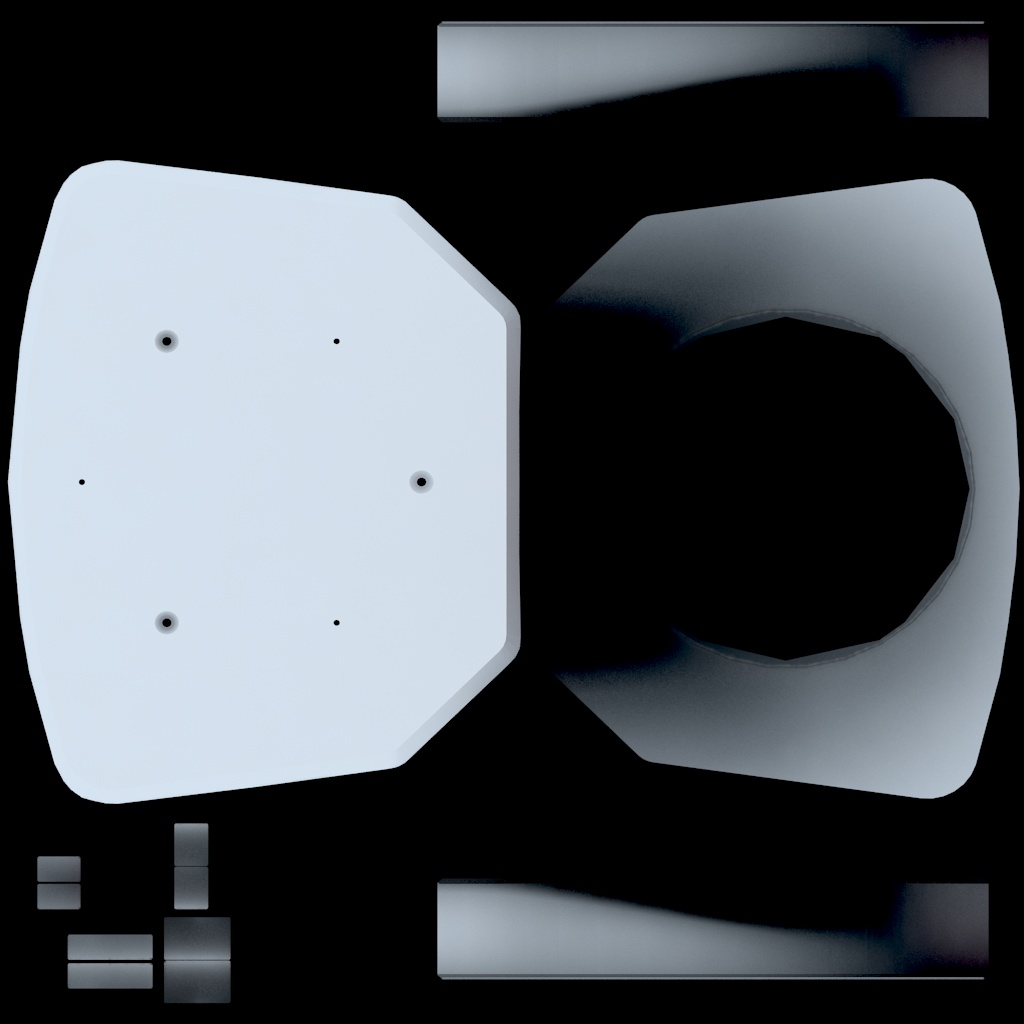
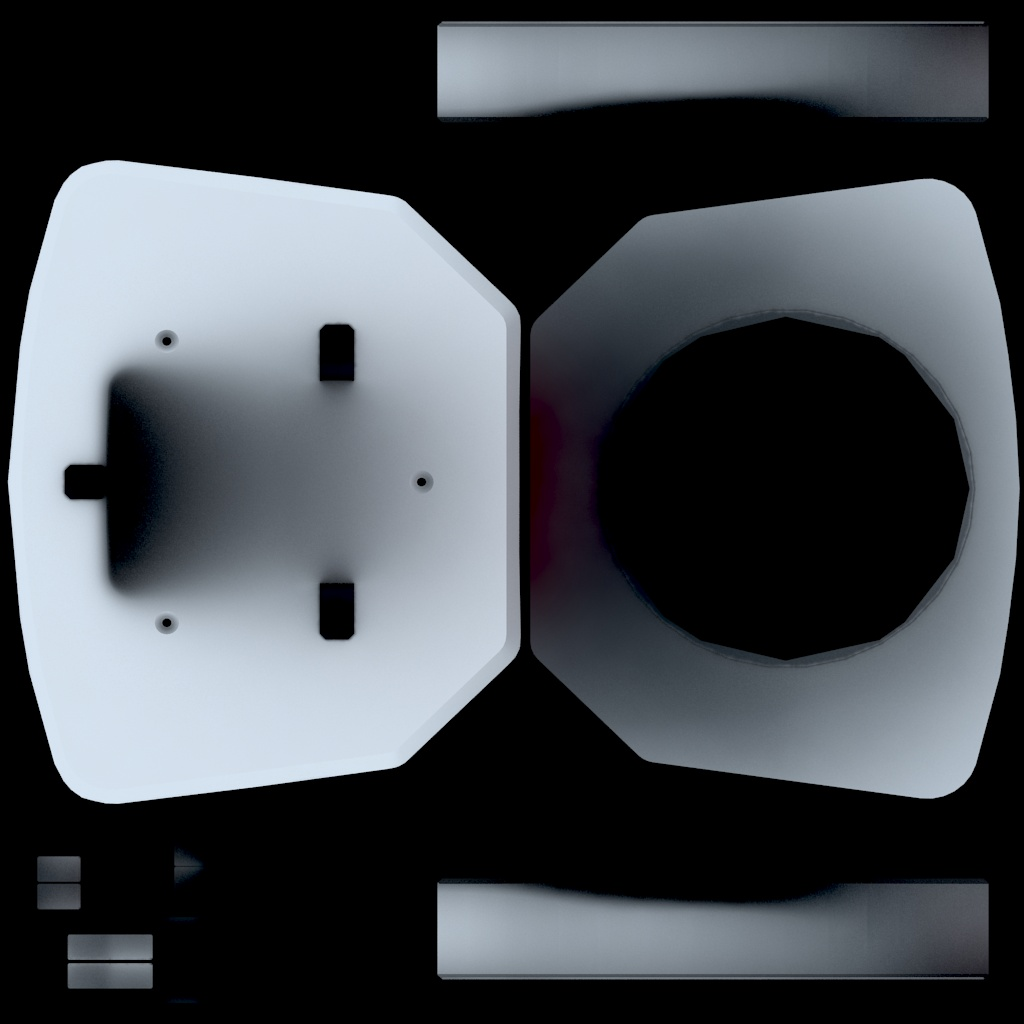
add portable

diff --git a/demo/index.html b/demo/index.html
@@ -14,8 +14,8 @@
 				background-color: #4D4D4D;
 				overflow: hidden;
 				font-size: 11px;
-				height: 100%;
 				color: #9D9D9D;
+				height: 100%;
 				margin: 0px;
 			}
 			#info {
@@ -56,7 +56,6 @@
 		  (i[r].q=i[r].q||[]).push(arguments)},i[r].l=1*new Date();a=s.createElement(o),
 		  m=s.getElementsByTagName(o)[0];a.async=1;a.src=g;m.parentNode.insertBefore(a,m)
 		  })(window,document,'script','//www.google-analytics.com/analytics.js','ga');
-
 		  ga('create', 'UA-45001095-2', 'arn-o.github.io');
 		  ga('send', 'pageview');
 		</script>
@@ -110,7 +109,7 @@
 			var materials = [];
 			// mesh
 			var wheels = [];
-			var base, plate, arm_base, arm_joint_1, arm_joint_2, arm_joint_3, arm_joint_4, arm_joint_5, right_finger, left_finger;
+			var base, plate, arm_base, arm_joint_1, arm_joint_2, arm_joint_3, arm_joint_4, arm_joint_5, right_finger, left_finger, portable, ecran;
 
 			var droidTarget;
 			var isMoveMode = false;
@@ -130,8 +129,6 @@
 				scene = new THREE.Scene();
 				cam = new CameraLoth(container);
 				setViewSize(window.innerWidth, window.innerHeight);
-				//camera.aspect = window.innerWidth / window.innerHeight;
-				//camera.updateProjectionMatrix();
 				camera.scale.set(-1, 1, 1);
 
 				projector = new THREE.Projector();
@@ -263,6 +260,9 @@
 					if(name === "arm_base_frame") arm_base = base.children[i];
 					if(name === "plate") plate = base.children[i];
 				}
+				portable = plate.children[0];
+				ecran = portable.children[0];
+
 				arm_joint_1 = arm_base.children[0];
 				arm_joint_2 = arm_joint_1.children[0];
 				arm_joint_3 = arm_joint_2.children[0];
@@ -285,6 +285,7 @@
 				textures[6] = new THREE.ImageUtils.loadTexture( AssetsFolder + "joint3.jpg" );
 				textures[7] = new THREE.ImageUtils.loadTexture( AssetsFolder + "joint4.jpg" );
 				textures[8] = new THREE.ImageUtils.loadTexture( AssetsFolder + "joint5.jpg" );
+				textures[9] = new THREE.ImageUtils.loadTexture( AssetsFolder + "portable.jpg" );
 
 				for(i = 0; i!== textures.length; i++){
 					textures[i].repeat.set( 1, -1 );
@@ -293,7 +294,6 @@
 				}
 
 				// material
-				
 				var shine = 10;
 				var specular = 0x606060;
 				materials[0] = new THREE.MeshPhongMaterial( { map: textures[0], shininess:shine, specular:specular } );
@@ -306,6 +306,10 @@
 				materials[7] = new THREE.MeshPhongMaterial( { map: textures[7], shininess:shine, specular:specular } );
 				materials[8] = new THREE.MeshPhongMaterial( { map: textures[8], shininess:shine, specular:specular } );
 				materials[9] = new THREE.MeshPhongMaterial( { map: textures[8], shininess:shine, specular:specular } );
+				materials[10] = new THREE.MeshPhongMaterial( { map: textures[9], shininess:shine, specular:specular } );
+				camTexture();
+				materials[11] = new THREE.MeshPhongMaterial( { map:finalRenderTarget, shininess:shine, specular:specular } );
+
 
 
 				// apply material
@@ -319,6 +323,10 @@
 				arm_joint_5.material = materials[8];
 				right_finger.material = materials[9];
 				left_finger.material = materials[9];
+
+				portable.material = materials[10];
+				ecran.material = materials[11];
+				
 
 				// add root model
 				youbot.add( base );
@@ -465,16 +473,27 @@
 			}
 
 			//-----------------------------------------------------
+			//  CAMERA TEXTURE
+			//-----------------------------------------------------
+
+			var textureCamera, finalRenderTarget;
+
+			function camTexture() {
+				textureCamera = new THREE.PerspectiveCamera( 120, 600 /1024, 1, 1000 );
+			    textureCamera.scale.set(-1, 1, 1);
+				arm_joint_5.add(textureCamera);
+				textureCamera.position.set(5, 4, 0);
+				textureCamera.lookAt( new THREE.Vector3(5,10,0) )
+				finalRenderTarget = new THREE.WebGLRenderTarget( 512, 1024, { format: THREE.RGBFormat } );
+			}
+
+			//-----------------------------------------------------
 			//  EVENTS
 			//-----------------------------------------------------
 			
-
 			function onResize() {
 				setViewSize(window.innerWidth, window.innerHeight);
-				//camera.aspect = window.innerWidth / window.innerHeight;
-				//camera.updateProjectionMatrix();
 				renderer.setSize( window.innerWidth, window.innerHeight );
-
 				if(isSketch){
 					composer.setSize(window.innerWidth,window.innerHeight);
 					pass.uniforms.resolution.value.set(window.innerWidth,window.innerHeight);
@@ -498,6 +517,7 @@
 					pass.uniforms.tColor.value=colorBuffer;
 					composer.render();
 			    }
+			    if(textureCamera) renderer.render( scene, textureCamera, finalRenderTarget, true );
 				stats.update();
 			}
 
@@ -517,7 +537,6 @@
 
 			var OimoWorker;
 			var isPhysicsOn = false;
-
 			var geo01 = new THREE.CubeGeometry( 1, 1, 1 );
 			var geo02 = new THREE.SphereGeometry( 1, 6, 4);
 			var mat01 = new THREE.MeshPhongMaterial( { color: 0x909090, shininess:20, specular:0xffffff } );
@@ -705,8 +724,6 @@
 				return bone;
 			}
 
-
-
 			//-----------------------------------------------------
 			//  GUI
 			//-----------------------------------------------------
@@ -743,8 +760,8 @@
 			//  SKETCH MODE
 			//-----------------------------------------------------
 
-			var composer,pass,colorBuffer;
-			var parameters={minFilter:THREE.LinearFilter,magFilter:THREE.LinearFilter,format:THREE.RGBFormat,stencilBuffer:false};
+			var composer, pass, colorBuffer;
+			var parameters={minFilter:THREE.LinearFilter, magFilter:THREE.LinearFilter, format:THREE.RGBFormat,stencilBuffer:false};
 			var isSketch = false;
 
 			function showSketch() {
@@ -798,7 +815,6 @@
 					renderer.setClearColor(0x4D4D4D);
 					isSketch = false;
 				}
-
 			}
 
 			//-----------------------------------------------------
@@ -808,9 +824,9 @@
 			var expTween;
 
 			function addAnimation() {
-				TweenLite.to(jointConfig, 3, {joint_2: -65, joint_3: 80, joint_4:-102.5, delay:5, onUpdate: animationUpdate, onComplete: animationEnd });
-				TweenLite.to(jointConfig, 0.5, {joint_5:160, finger:3, delay:8, onUpdate: animationUpdate, onComplete: animationEnd });
-				TweenLite.to(jointConfig, 0.5, {joint_5:0, finger:0, delay:8.5, onUpdate: animationUpdate, onComplete: animationEnd });
+				TweenLite.to(jointConfig, 3, {joint_2: -65, joint_3: 80, joint_4:-102.5, delay:5, onUpdate: animationUpdate});
+				TweenLite.to(jointConfig, 0.5, {joint_5:160, finger:3, delay:8, onUpdate: animationUpdate});
+				TweenLite.to(jointConfig, 0.5, {joint_5:0, finger:0, delay:8.5, onUpdate: animationUpdate});
 			}
 
 			function animationUpdate() {
@@ -853,8 +869,8 @@
 			}
 
 			function animationAnger() {
-				expTween = TweenLite.to(jointConfig, 1, {joint_1:169, joint_2: -65, joint_3: 90, joint_4:-90, joint_5:90, finger:3, delay:0, onUpdate: animationUpdate, ease:Elastic.easeOut});
-				expTween = TweenLite.to(jointConfig, 1, {joint_1:169, joint_2: -55, joint_3: 30, joint_4:-102, joint_5:0,  finger:0, delay:1, onUpdate: animationUpdate, onComplete: animationAnger , ease:Elastic.easeOut});
+				expTween = TweenLite.to(jointConfig, 1, {joint_1:170, joint_2: -50, joint_3: 40, joint_4:-20, joint_5:0, finger:2, delay:0, onUpdate: animationUpdate, ease:Elastic.easeOut});
+				expTween = TweenLite.to(jointConfig, 1, {joint_1:150, joint_2: -40, joint_3: -20, joint_4:-50, joint_5:0,  finger:1, delay:1, onUpdate: animationUpdate, onComplete: animationAnger , ease:Elastic.easeOut});
 			}
 
 			function animationFrustration() {
